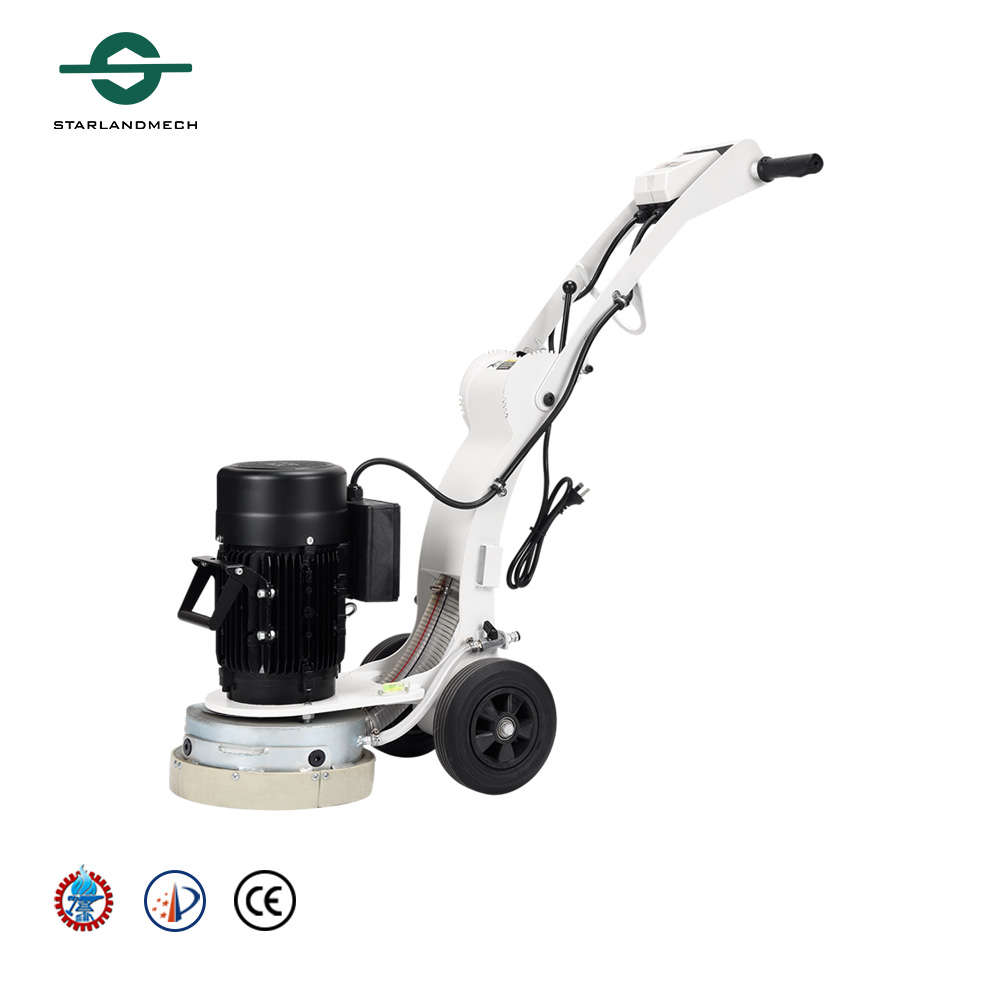
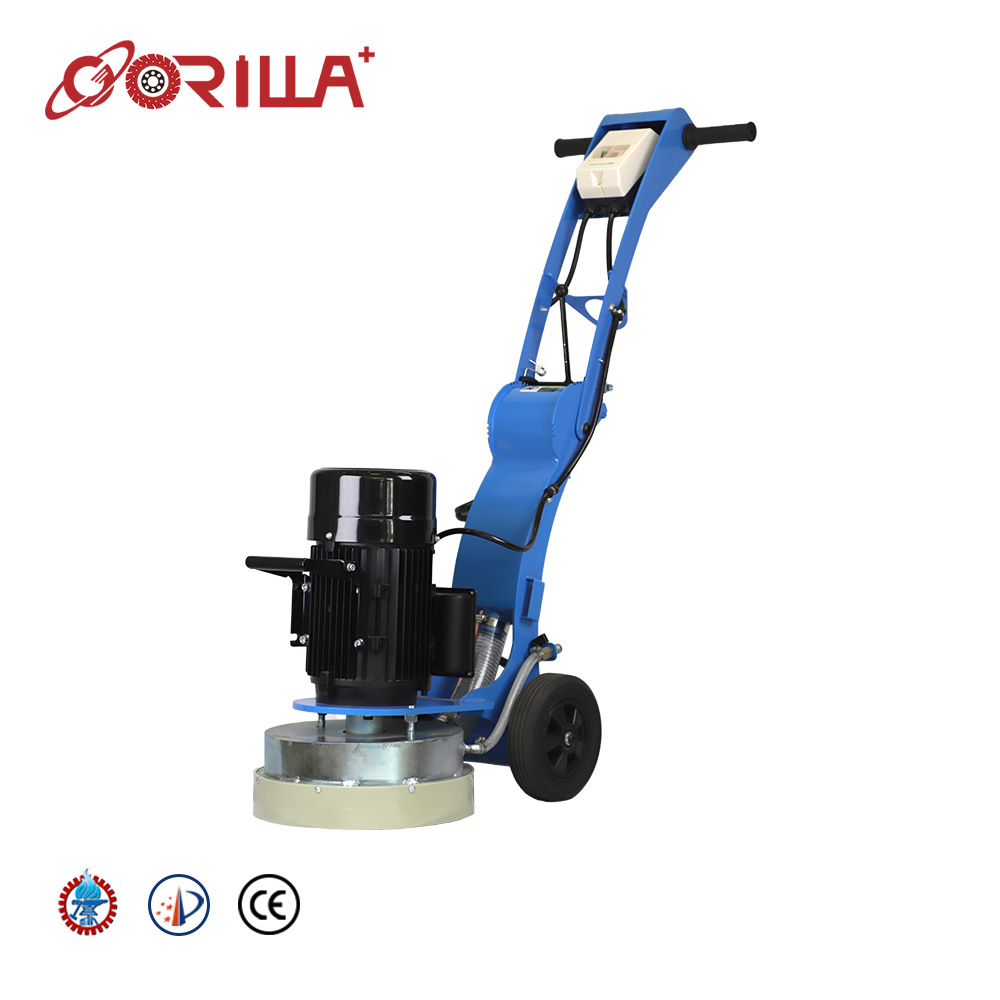
Update grinder/stand images and correct DDB33 naming to UDS33
- Replace 8 floor-grinder photos with GorillaTool versions; add new FG350B card
- Update DS350 and UDS33C stand images from pack
- Correct naming error: DDB33C/DT/UT -> UDS33C/UT/DT (image files + HTML refs
  on drill-stand.html and index.html), per pack filename note and spec sheet

Changed region(s): [[0.1562, 0.0938, 0.8438, 0.8438], [0.0312, 0.0312, 0.375, 0.125], [0.0312, 0.875, 0.3125, 0.9375]]

diff --git a/pages/drill-stand.html b/pages/drill-stand.html
@@ -367,12 +367,12 @@
                     <a href="#" class="btn btn-primary" onclick="openQuoteModal(); return false;">Request Quote</a>
                 </div>
 
-                <!-- Product 17: DDB33C -->
+                <!-- Product 17: UDS33C -->
                 <div class="product-item">
                     <div class="product-item-image">
-                        <img src="../assets/images/product-stand-DDB33C.jpg" alt="DDB33C Drill Stand">
+                        <img src="../assets/images/product-stand-UDS33C.jpg" alt="UDS33C Drill Stand">
                     </div>
-                    <h3>DDB33C</h3>
+                    <h3>UDS33C</h3>
                     <p>Heavy telescopic drill rig, 3300mm reach with 1000mm swing arm and 4-wheel base for continuous same-height drilling.</p>
                     <div class="product-specs">
                         <ul>
@@ -385,12 +385,12 @@
                     <a href="#" class="btn btn-primary" onclick="openQuoteModal(); return false;">Request Quote</a>
                 </div>
 
-                <!-- Product 18: DDB33DT -->
+                <!-- Product 18: UDS33DT -->
                 <div class="product-item">
                     <div class="product-item-image">
-                        <img src="../assets/images/product-stand-DDB33DT.jpg" alt="DDB33DT Drill Stand">
+                        <img src="../assets/images/product-stand-UDS33DT.jpg" alt="UDS33DT Drill Stand">
                     </div>
-                    <h3>DDB33DT</h3>
+                    <h3>UDS33DT</h3>
                     <p>Dual-column telescopic drill rig with 850mm swing arm and &plusmn;90&deg; rotation for versatile overhead positioning.</p>
                     <div class="product-specs">
                         <ul>
@@ -403,12 +403,12 @@
                     <a href="#" class="btn btn-primary" onclick="openQuoteModal(); return false;">Request Quote</a>
                 </div>
 
-                <!-- Product 19: DDB33UT -->
+                <!-- Product 19: UDS33UT -->
                 <div class="product-item">
                     <div class="product-item-image">
-                        <img src="../assets/images/product-stand-DDB33UT.jpg" alt="DDB33UT Drill Stand">
+                        <img src="../assets/images/product-stand-UDS33UT.jpg" alt="UDS33UT Drill Stand">
                     </div>
-                    <h3>DDB33UT</h3>
+                    <h3>UDS33UT</h3>
                     <p>Compact telescopic drill support, 3300mm reach with 2-wheel base for efficient wall and ceiling drilling.</p>
                     <div class="product-specs">
                         <ul>

diff --git a/pages/floor-grinder.html b/pages/floor-grinder.html
@@ -169,7 +169,25 @@
                     <a href="#" class="btn btn-primary" onclick="openQuoteModal(); return false;">Request Quote</a>
                 </div>
 
-                <!-- Product 6: FG480 -->
+                <!-- Product 6: FG350B -->
+                <div class="product-item">
+                    <div class="product-item-image">
+                        <img src="../assets/images/product-grinder-FG350B.jpg" alt="FG350B Floor Grinder">
+                    </div>
+                    <h3>FG350B</h3>
+                    <p>Gearbox-driven 350mm grinder with reduced head speed for smoother, controlled surface preparation.</p>
+                    <div class="product-specs">
+                        <ul>
+                            <li><i class="fas fa-circle"></i> Working Width: 350mm</li>
+                            <li><i class="fas fa-circle"></i> Motor Power: 2.2 kW</li>
+                            <li><i class="fas fa-circle"></i> Voltage: 220/110V</li>
+                            <li><i class="fas fa-circle"></i> Head Speed: 410/480 rpm</li>
+                        </ul>
+                    </div>
+                    <a href="#" class="btn btn-primary" onclick="openQuoteModal(); return false;">Request Quote</a>
+                </div>
+
+                <!-- Product 7: FG480 -->
                 <div class="product-item">
                     <div class="product-item-image">
                         <img src="../assets/images/product-grinder-FG480.jpg" alt="FG480 Floor Grinder">

diff --git a/index.html b/index.html
@@ -268,14 +268,14 @@
                         </div>
                     </div>
                 </div>
-                <!-- Product Card 8 - DDB33DT -->
+                <!-- Product Card 8 - UDS33DT -->
                 <div class="product-card flip-card">
                     <div class="flip-card-inner">
                         <div class="flip-card-front">
-                            <img src="assets/images/product-stand-DDB33DT.jpg" alt="DDB33DT Drill Stand">
+                            <img src="assets/images/product-stand-UDS33DT.jpg" alt="UDS33DT Drill Stand">
                         </div>
                         <div class="flip-card-back">
-                            <h5>DDB33DT</h5>
+                            <h5>UDS33DT</h5>
                             <a href="#" class="btn btn-outline" onclick="openQuoteModal(); return false;">Get Full specification</a>
                         </div>
                     </div>
